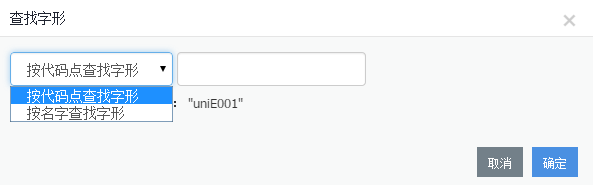
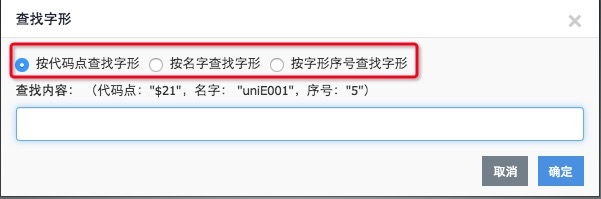
add font sync

Changed region(s): [[0.0, 0.0, 1.0, 1.0], [0.0, 0.0541, 0.1214, 0.1351]]

diff --git a/index.html b/index.html
@@ -32,7 +32,9 @@
             <a href="#save" class="list-group-item">导出|预览 字体</a>
             <a href="#editor-glyf" class="list-group-item">编辑字形列表</a>
             <a href="#import" class="list-group-item">导入字形</a>
+            <a href="#font-sync" class="list-group-item">同步字体文件</a>
             <a href="#editor-path" class="list-group-item">编辑字形轮廓</a>
+            <a href="#export-glyf" class="list-group-item">导出字形</a>
             <a href="#editor-find" class="list-group-item">查找字形</a>
             <a href="#editor-setting" class="list-group-item">编辑器设置</a>
             <a href="#shortcut" class="list-group-item">快捷键</a>
@@ -109,13 +111,20 @@
             <p>点击<i class="setting">`预览`</i>按钮，预览当前正在编辑的项目，chrome仅支持预览ttf|woff格式字体，safari支持预览svg字体，IE10+支持预览eot字体。</p>
             <p>注意：<em>FontEditor为纯前端字体编辑器，处理字形个数超过3000个的项目时会超出脚本执行时间，导致导出失败，因此需要注意编辑超多字形时，请使用FontCreator等桌面软件。</em></p>
             <p><img src="./img/save.png"></p>
+        </section>
 
+        <section data-anchor="font-sync">
             <h3>同步字体文件</h3>
             <p>在主面板工具栏中点击<em>`同步字体`</em>，打开同步字体对话框。</p>
-            <p>输入远程地址，字体名称，选择需要同步的字体类型即可进行同步，勾选<em>`自动同步`</em>复选框则在保存项目的时候会自动同步字体到指定的地址。</p>
+            <p>输入远程地址，推送地址，字体名称，选择需要同步的字体类型即可进行同步，勾选<em>`自动同步`</em>复选框则在保存项目的时候会自动同步字体到指定的地址。</p>
+
             <p>点击<em>`取消同步`</em>按钮取消同步设置。</p>
             <p>在项目列表中点击<em>`同步`</em>按钮可以手动同步当前字体。</p>
-            <p>注意：<em>FontEditor不检查同步地址是否有效，如果同步不成功，请参考`<a target="_blank" href="https://github.com/ecomfe/fonteditor/blob/master/demo/sync/font.php">此处同步代码</a>`</em>。</p>
+            <p>其中：</p>
+            <p>远程地址：支持`FontEditor`同步协议的服务器地址，关于同步规则请参考如下示例：<a target="_blank" href="https://github.com/ecomfe/fonteditor/blob/master/demo/sync/font.php">同步服务代码</a></p>
+            <p>推送地址：支持`FontEditor`推送协议的服务器地址，<em>FontEditor不检查推送地址是否有效，如果推送不成功，请参考`<a target="_blank" href="https://github.com/ecomfe/fonteditor/blob/master/demo/sync/font.php">推送代码</a>`</em>。</p>
+            <p>字体名称：需要同步的字体文件名，作为字体标识</p>
+            <p>字体类型：需要同步的字体类型，FontEditor会在同步时把指定类型的数据，发送给同步服务器。</p>
             <p><img src="./img/sync.png"></p>
         </section>
 
@@ -187,11 +196,7 @@
             <p>对于非`path`标签，如ellipse，polygon 在导入的时候合并为一个字形 </p>
 
             <p><img src="./img/import.png"></p>
-
-
-
         </section>
-
 
         <section data-anchor="editor-path">
             <h2>编辑字形轮廓</h2>
@@ -300,12 +305,22 @@
 
         </section>
 
+        <section data-anchor="export-glyf">
+            <h2>导出字形</h2>
+            <p>FontEditor支持将单个字形导出到png或者svg文件。</p>
+            <p>在字形编辑器中，选择字形后，点击<i class="setting">`导出字形`</i>按钮，打开导出字形对话框。</p>
+            <p>设置<i class="setting">`字形颜色`</i>和<i class="setting">`字形大小`</i>之后，
+            点击<i class="setting">`下载SVG`</i>导出svg格式文件，
+            点击<i class="setting">`下载PNG`</i>导出png格式文件。</p>
+            <p><img src="./img/export-glyf.png"></p>
+        </section>
 
         <section data-anchor="editor-find">
             <h2>查找字形</h2>
 
             <p>在主面板工具栏中，点击查找字形，打开查找字形对话框，默认`<em>按代码点查找字形</em>`，输入要查找的unicode，找到的字形会被选中，未找到字形，则不作任何改变。</p>
-            <p>选择`<em>按名字查找字形</em>`，输入字形名称，按名称查找到相应的字形，找到的字形会被选中，未找到字形，则不作任何改变。</p>
+            <p>选择<em>`按名字查找字形`</em>，输入字形名称，按名称查找到相应的字形，找到的字形会被选中，未找到字形，则不作任何改变。</p>
+            <p>选择<em>`按字形序号查找字形`</em>，输入字形序号，则找到的字形会被选中。</p>
             <p><img src="./img/find.png"></p>
         </section>
 
